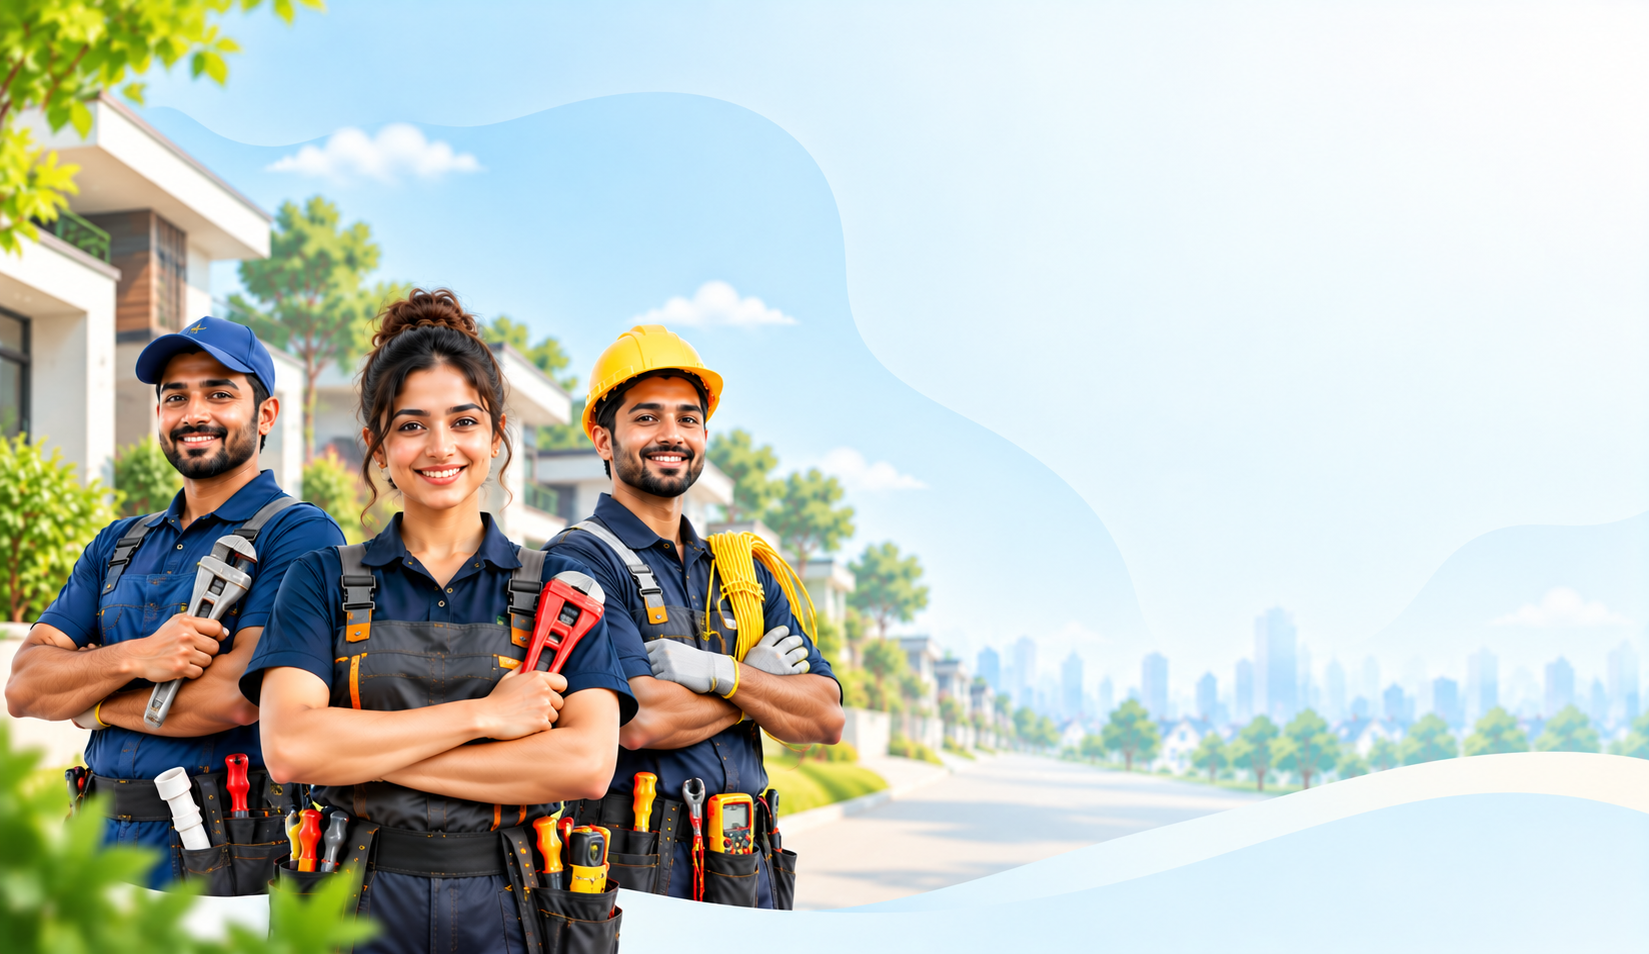
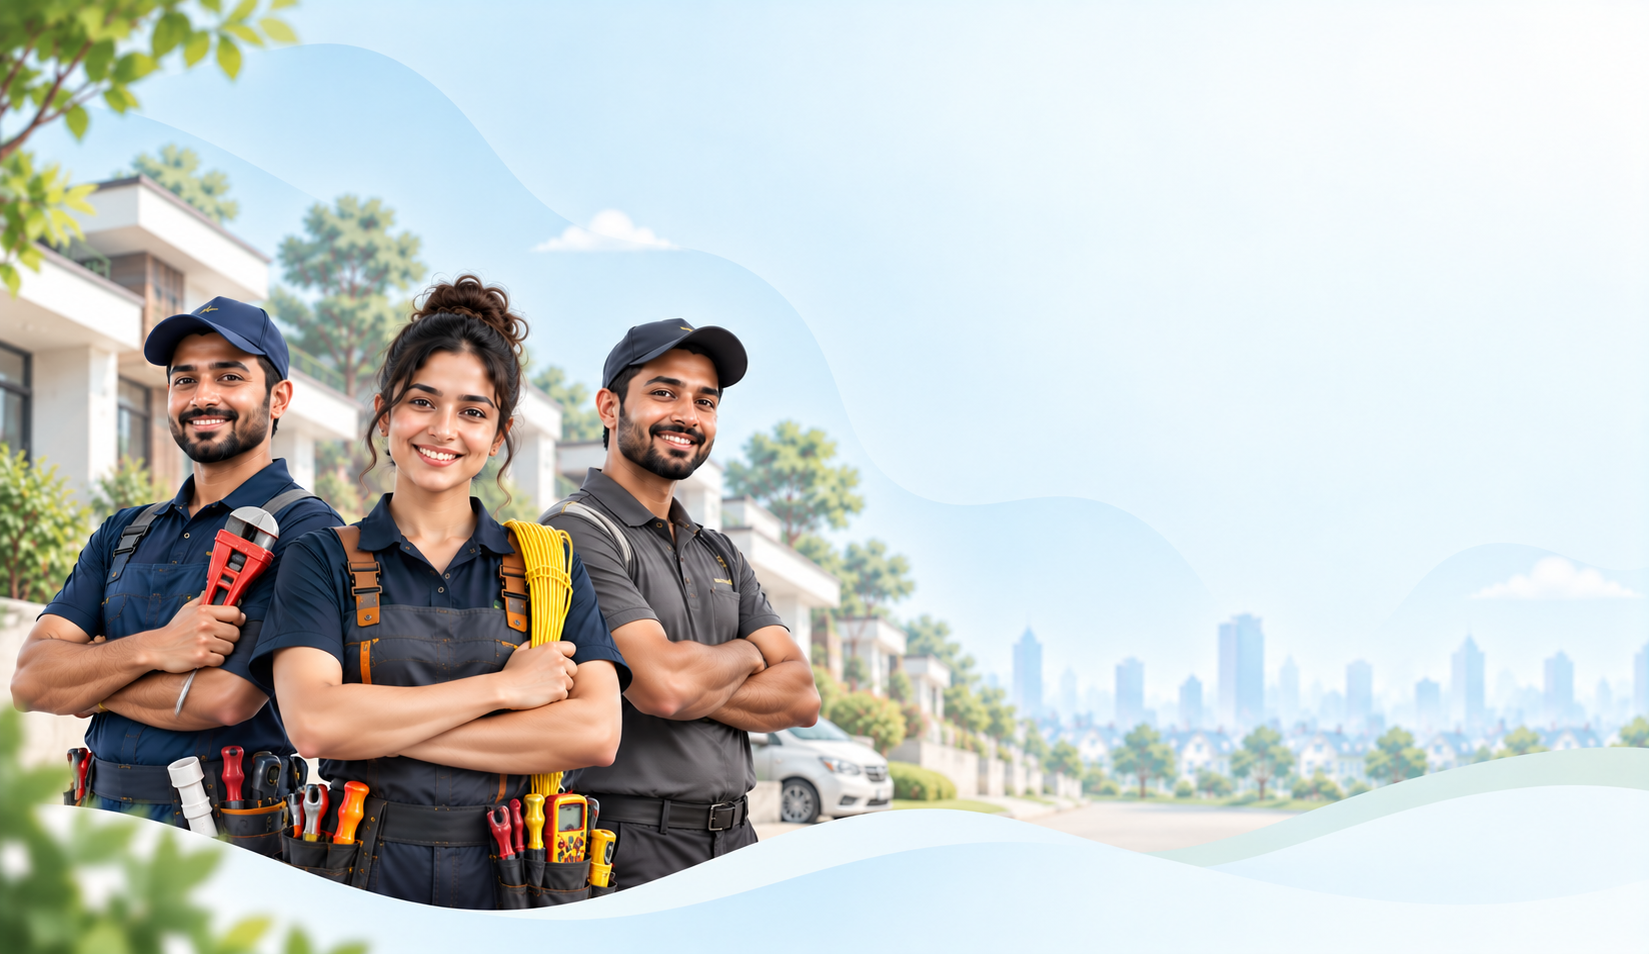
Refactor index.html to improve layout and styling, including adjustments to overflow properties, background image sizing, and enhancements to form elements for better user experience. Update service selection fields and button interactions for improved accessibility and functionality.

diff --git a/index.html b/index.html
@@ -149,7 +149,9 @@
       display: flex;
       flex-direction: column;
       gap: 10px;
-      overflow: hidden;
+      /* Clip only sideways (for the sliding backgrounds) so open menus like the date picker can extend below the hero. */
+      overflow-x: clip;
+      overflow-y: visible;
     }
     .hero-bg {
       position: absolute;
@@ -172,7 +174,8 @@
     .hero-bg-service {
       background-image: url("images/Professional Service Team Banner.png");
       background-position: left center;
-      background-size: 1600px auto;
+      /* At least 1600px wide, and tall enough to fill a full-height hero (image is 1650 × 953). */
+      background-size: max(1600px, calc((100svh - 68px) * 1.732)) auto;
       transform: translateX(-12px);
     }
     .hero.mode-parcel .hero-bg-parcel {
@@ -330,6 +333,7 @@
       margin-top: 0;
       align-items: start;
     }
+    .quote-body.service-mode { gap: 8px; align-items: stretch; }
     .quote-body.parcel-mode {
       display: block;
       margin-top: 0;
@@ -372,7 +376,6 @@
       gap: 8px;
       width: 100%;
     }
-    .quote-col { min-width: 0; display: flex; flex-direction: column; gap: 8px; }
     .block-label {
       margin: 0 2px 2px;
       font-size: 10px;
@@ -545,6 +548,13 @@
       color: var(--nav);
       cursor: pointer;
     }
+    .when-btn > span {
+      min-width: 0;
+      overflow: hidden;
+      text-overflow: ellipsis;
+      white-space: nowrap;
+      text-align: left;
+    }
     .when-btn span {
       font-size: 15px;
       font-weight: 600;
@@ -610,7 +620,6 @@
       background: #1666D8;
       flex: none;
     }
-    .date-field { margin-top: 10px; }
     .date-menu {
       position: absolute;
       left: 0;
@@ -904,7 +913,7 @@
         background-image:
           linear-gradient(to right, rgba(255, 255, 255, 0) 30%, rgba(255, 255, 255, 0.88) 46%),
           url("images/Professional Service Team Banner.png");
-        background-size: 100% 100%, 1600px auto;
+        background-size: 100% 100%, max(1600px, calc((100svh - 68px) * 1.732)) auto;
         background-position: 0 0, -140px center;
       }
     }
@@ -950,6 +959,7 @@
       .nav-btn { height: 42px; padding: 0 12px; }
       /* Phones: the picture becomes a banner between the mode tabs and the heading. */
       .hero {
+        min-height: 0;
         padding: 16px 16px 28px;
         gap: 14px;
         overflow: visible;
@@ -1165,26 +1175,31 @@
             </div>
 
             <div class="quote-body service-mode" id="serviceMode" hidden>
-              <div class="quote-col">
                 <label class="field">
-                  <svg width="18" height="18" viewBox="0 0 24 24" fill="none" stroke="#1666D8" stroke-width="2"><path d="M12 21s7-6.2 7-11a7 7 0 1 0-14 0c0 4.8 7 11 7 11Z"/><circle cx="12" cy="10" r="2.2"/></svg>
-                  <span><span>Area</span><input id="serviceArea" value="Edappally, Kochi"></span>
+                  <svg width="18" height="18" viewBox="0 0 24 24" fill="none" stroke="#1666D8" stroke-width="2" aria-hidden="true"><path d="M14.7 6.3a4 4 0 0 0-5.4 5.4L3 18l3 3 6.3-6.3a4 4 0 0 0 5.4-5.4l-2.6 2.6-2.4-.6-.6-2.4 2.6-2.6Z"/></svg>
+                  <span><span>Service</span><input id="serviceNeed" value="Home cleaning" list="serviceList" autocomplete="off" placeholder="What do you need?"></span>
+                  <datalist id="serviceList">
+                    <option value="Home cleaning"></option>
+                    <option value="Plumbing"></option>
+                    <option value="Electrical work"></option>
+                    <option value="AC service &amp; repair"></option>
+                    <option value="Appliance repair"></option>
+                    <option value="Carpentry"></option>
+                    <option value="Painting"></option>
+                    <option value="Pest control"></option>
+                  </datalist>
                 </label>
                 <label class="field">
-                  <svg width="18" height="18" viewBox="0 0 24 24" fill="none" stroke="#1666D8" stroke-width="2"><path d="M12 21s7-6.2 7-11a7 7 0 1 0-14 0c0 4.8 7 11 7 11Z"/><circle cx="12" cy="10" r="2.2"/></svg>
-                  <span><span>Service</span><input id="serviceNeed" value="Home cleaning"></span>
+                  <svg width="18" height="18" viewBox="0 0 24 24" fill="none" stroke="#1666D8" stroke-width="2" aria-hidden="true"><path d="M12 21s7-6.2 7-11a7 7 0 1 0-14 0c0 4.8 7 11 7 11Z"/><circle cx="12" cy="10" r="2.2"/></svg>
+                  <span><span>Area</span><input id="serviceArea" value="Edappally, Kochi" autocomplete="off" placeholder="Your locality"></span>
                 </label>
-              </div>
-              <div class="quote-col">
                 <div class="field when-field" id="whenField">
-                  <svg width="18" height="18" viewBox="0 0 24 24" fill="none" stroke="#1666D8" stroke-width="2"><path d="M3 7.5 12 3l9 4.5-9 4.5L3 7.5Z"/><path d="M3 7.5V16.5L12 21l9-4.5V7.5"/></svg>
-                  <span><span id="extraLabel">When</span><input id="extra" value="Medium box · up to 10 kg" hidden>
-                    <span class="when-pick" id="whenPick">
-                      <button type="button" class="when-btn" id="whenBtn" aria-haspopup="listbox" aria-expanded="false">
-                        <span id="whenValue">Morning, 6 AM – 11 AM</span>
-                        <svg width="16" height="16" viewBox="0 0 24 24" fill="none" stroke="#8AA0A4" stroke-width="2" aria-hidden="true"><path d="m6 9 6 6 6-6"/></svg>
-                      </button>
-                    </span>
+                  <svg width="18" height="18" viewBox="0 0 24 24" fill="none" stroke="#1666D8" stroke-width="2" aria-hidden="true"><circle cx="12" cy="12" r="9"/><path d="M12 7v5l3 2"/></svg>
+                  <span><span>When</span>
+                    <button type="button" class="when-btn" id="whenBtn" aria-haspopup="listbox" aria-expanded="false">
+                      <span id="whenValue">Morning, 6 AM – 11 AM</span>
+                      <svg width="16" height="16" viewBox="0 0 24 24" fill="none" stroke="#8AA0A4" stroke-width="2" aria-hidden="true"><path d="m6 9 6 6 6-6"/></svg>
+                    </button>
                   </span>
                   <ul class="when-menu" id="whenMenu" role="listbox" hidden>
                     <li><button type="button" class="on" data-value="Morning, 6 AM – 11 AM" aria-label="Morning, 6 AM to 11 AM"><span><b>Morning</b><small>6 AM to 11 AM</small></span></button></li>
@@ -1198,13 +1213,13 @@
                   <span>
                     <span>Date</span>
                     <button type="button" class="when-btn" id="dateBtn" aria-haspopup="dialog" aria-expanded="false">
-                      <span id="dateValue">Immediate requirement</span>
+                      <span id="dateValue">Immediate</span>
                       <svg width="16" height="16" viewBox="0 0 24 24" fill="none" stroke="#8AA0A4" stroke-width="2" aria-hidden="true"><path d="m6 9 6 6 6-6"/></svg>
                     </button>
                   </span>
                   <div class="date-menu" id="dateMenu" role="dialog" aria-label="Choose a date" hidden>
                     <button type="button" class="date-choice on" data-kind="immediate">
-                      <span><b>Immediate requirement</b><small>A worker can come as soon as possible</small></span>
+                      <span><b>Immediate</b><small>A worker can come as soon as possible</small></span>
                     </button>
                     <button type="button" class="date-choice" data-kind="dates">
                       <span><b>Choose dates</b><small>A preferred start day, plus one backup within 7 days</small></span>
@@ -1217,7 +1232,6 @@
                     </div>
                   </div>
                 </div>
-              </div>
             </div>
 
             <div class="parcel-row solo" id="parcelRow">
@@ -1349,11 +1363,8 @@
   <script>
     const fromLabel = document.getElementById('fromLabel');
     const toLabel = document.getElementById('toLabel');
-    const extraLabel = document.getElementById('extraLabel');
     const fromInput = document.getElementById('from');
     const toInput = document.getElementById('to');
-    const extraInput = document.getElementById('extra');
-    const whenPick = document.getElementById('whenPick');
     const whenBtn = document.getElementById('whenBtn');
     const whenMenu = document.getElementById('whenMenu');
     const whenValue = document.getElementById('whenValue');
@@ -1411,11 +1422,11 @@
     }
     function updateDateLabel() {
       if (dateKind === 'immediate') {
-        dateValue.textContent = 'Immediate requirement';
+        dateValue.textContent = 'Immediate';
         return;
       }
       if (pref && backup) {
-        dateValue.textContent = formatDay(pref) + ' preferred · ' + formatDay(backup) + ' backup';
+        dateValue.textContent = formatDay(pref) + ' · backup ' + formatDay(backup);
         return;
       }
       if (pref) {
@@ -1541,6 +1552,13 @@
     const heroLede = document.getElementById('heroLede');
     const parcelMode = document.getElementById('parcelMode');
     const serviceMode = document.getElementById('serviceMode');
+    const serviceNeed = document.getElementById('serviceNeed');
+    const serviceArea = document.getElementById('serviceArea');
+    function syncServiceReady() {
+      if (activeMode !== 'service') return;
+      compareBtn.disabled = !serviceNeed.value.trim() || !serviceArea.value.trim();
+    }
+    [serviceNeed, serviceArea].forEach((input) => input.addEventListener('input', syncServiceReady));
     let activeMode = 'parcel';
     let modeSwitchTimer = null;
     const heroCopy = {
@@ -1591,7 +1609,7 @@
         parcelRow.classList.add('solo');
         compareBtn.type = 'submit';
         compareBtn.textContent = 'Compare quotes →';
-        compareBtn.disabled = false;
+        syncServiceReady();
       }
     }
     function setQuoteMode(mode) {
@@ -1801,7 +1819,7 @@
       else if (activeMode === 'parcel' && parcelStep === 1) {
         compareBtn.disabled = !fromInput.value.trim() || !toInput.value.trim();
       } else {
-        compareBtn.disabled = false;
+        syncServiceReady();
       }
       dimsHint.hidden = !result.incompleteDimensions;
       dimsHint.textContent = quantity > 1
